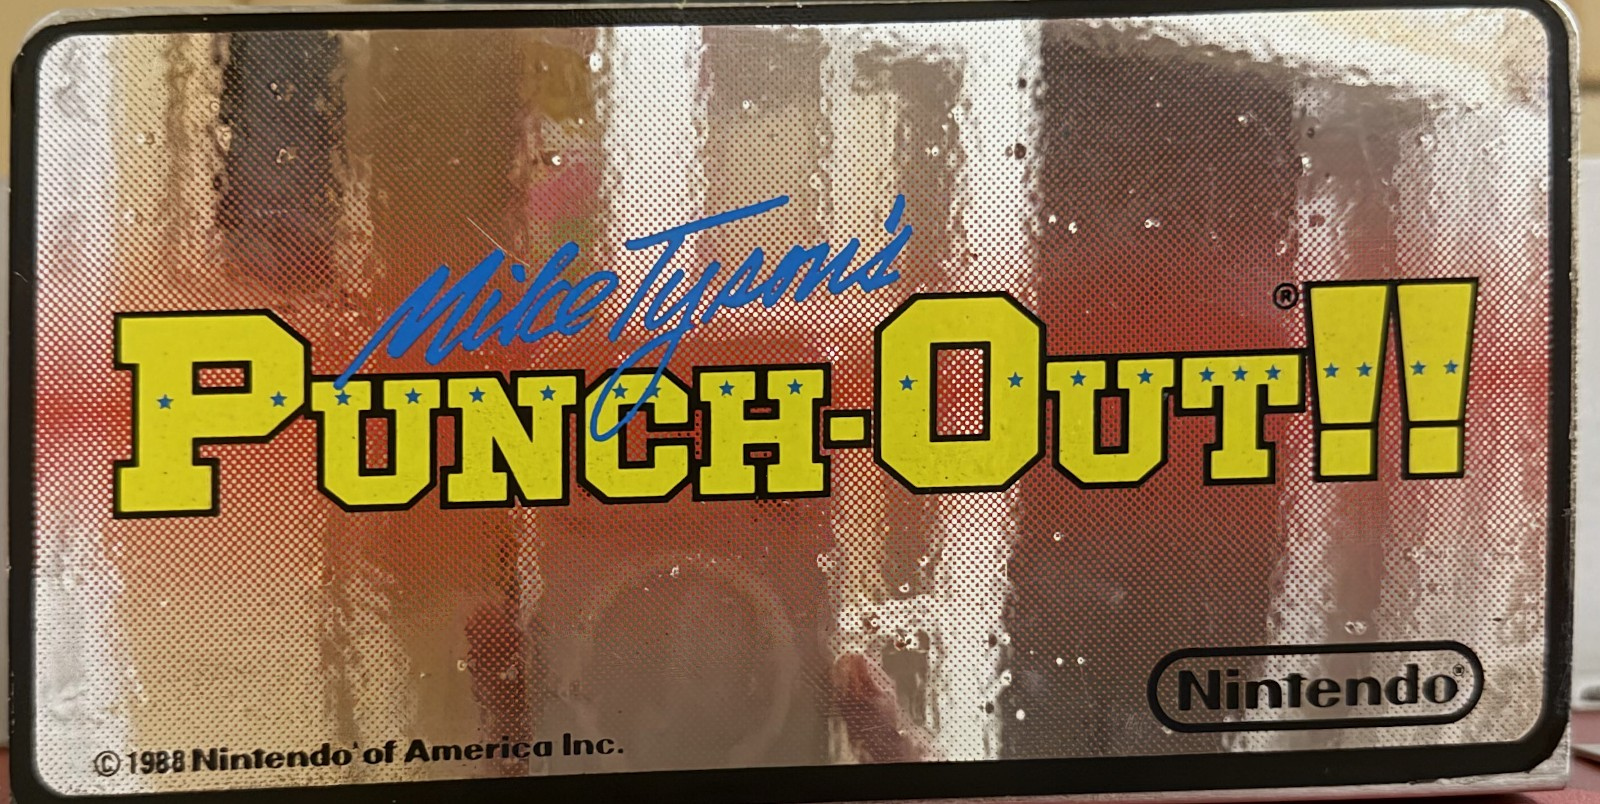
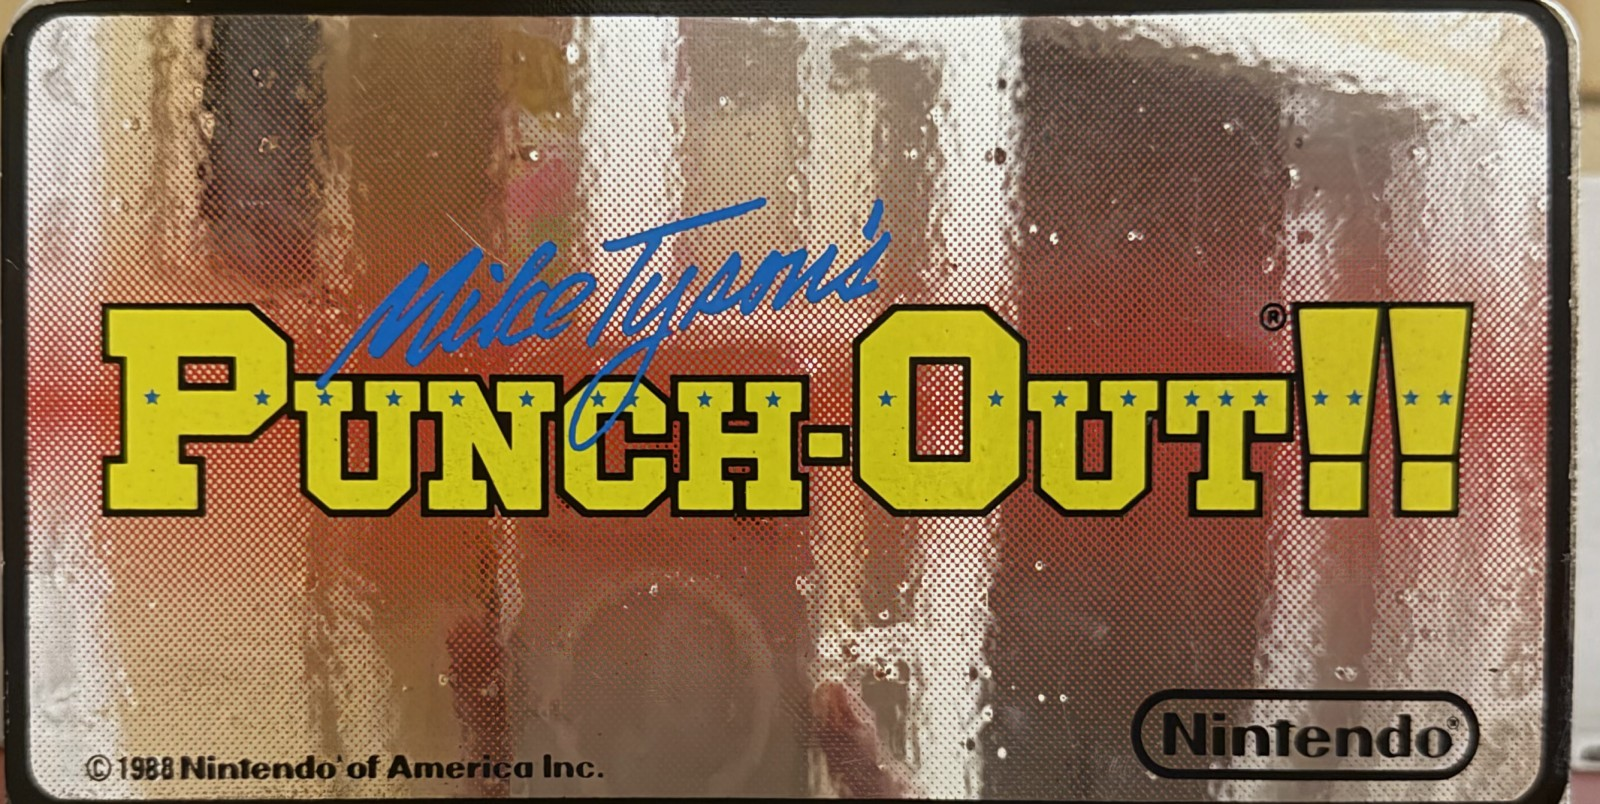
Level the Punch-Out!! topper: the recrop straightened it off by 1.7 degrees

diff --git a/signage.html b/signage.html
@@ -123,7 +123,7 @@
       <figure class="shot"><img src="media/thumbs/pc10-dr-mario.jpg" data-full="media/2026/pc10-dr-mario.jpg" alt="Original Nintendo PlayChoice-10 arcade topper for Dr. Mario" loading="lazy" width="800" height="402"><figcaption><b>Dr. Mario</b> &mdash; A capsule laid across a green checkerboard, viruses loose around it</figcaption></figure>
       <figure class="shot"><img src="media/thumbs/pc10-mega-man-3.jpg" data-full="media/2026/pc10-mega-man-3.jpg" alt="Original Nintendo PlayChoice-10 arcade topper for Mega Man 3" loading="lazy" width="800" height="402"><figcaption><b>Mega Man 3</b> &mdash; Chrome lettering, and Rush along for the ride</figcaption></figure>
       <figure class="shot"><img src="media/thumbs/pc10-metroid.jpg" data-full="media/2026/pc10-metroid.jpg" alt="Original Nintendo PlayChoice-10 arcade topper for Metroid" loading="lazy" width="800" height="402"><figcaption><b>Metroid</b> &mdash; NEW ADVENTURE, and Samus in yellow on a field of yellow &mdash; the copyright line reads 1987</figcaption></figure>
-      <figure class="shot"><img src="media/thumbs/pc10-punch-out.jpg?v=2" data-full="media/2026/pc10-punch-out.jpg?v=2" alt="Original Nintendo PlayChoice-10 arcade topper for Mike Tyson's Punch-Out!!" loading="lazy" width="800" height="402"><figcaption><b>Mike Tyson's Punch-Out!!</b> &mdash; Printed on mirror foil &mdash; it reflects whatever is standing in front of it</figcaption></figure>
+      <figure class="shot"><img src="media/thumbs/pc10-punch-out.jpg?v=3" data-full="media/2026/pc10-punch-out.jpg?v=3" alt="Original Nintendo PlayChoice-10 arcade topper for Mike Tyson's Punch-Out!!" loading="lazy" width="800" height="402"><figcaption><b>Mike Tyson's Punch-Out!!</b> &mdash; Printed on mirror foil &mdash; it reflects whatever is standing in front of it</figcaption></figure>
       <figure class="shot"><img src="media/thumbs/pc10-ninja-gaiden.jpg" data-full="media/2026/pc10-ninja-gaiden.jpg" alt="Original Nintendo PlayChoice-10 arcade topper for Ninja Gaiden" loading="lazy" width="800" height="402"><figcaption><b>Ninja Gaiden</b> &mdash; NEW GAME! sprayed on the brick, Ryu drawn as a silhouette</figcaption></figure>
       <figure class="shot"><img src="media/thumbs/pc10-pro-wrestling.jpg" data-full="media/2026/pc10-pro-wrestling.jpg" alt="Original Nintendo PlayChoice-10 arcade topper for Pro Wrestling" loading="lazy" width="800" height="402"><figcaption><b>Pro Wrestling</b> &mdash; NEW GAME! hand-lettered across a wallpaper of Nintendo logos</figcaption></figure>
       <figure class="shot"><img src="media/thumbs/pc10-rad-racer.jpg" data-full="media/2026/pc10-rad-racer.jpg" alt="Original Nintendo PlayChoice-10 arcade topper for Rad Racer" loading="lazy" width="800" height="402"><figcaption><b>Rad Racer</b> &mdash; The first topper to come off the <a href="wanted.html">hunt list</a></figcaption></figure>
